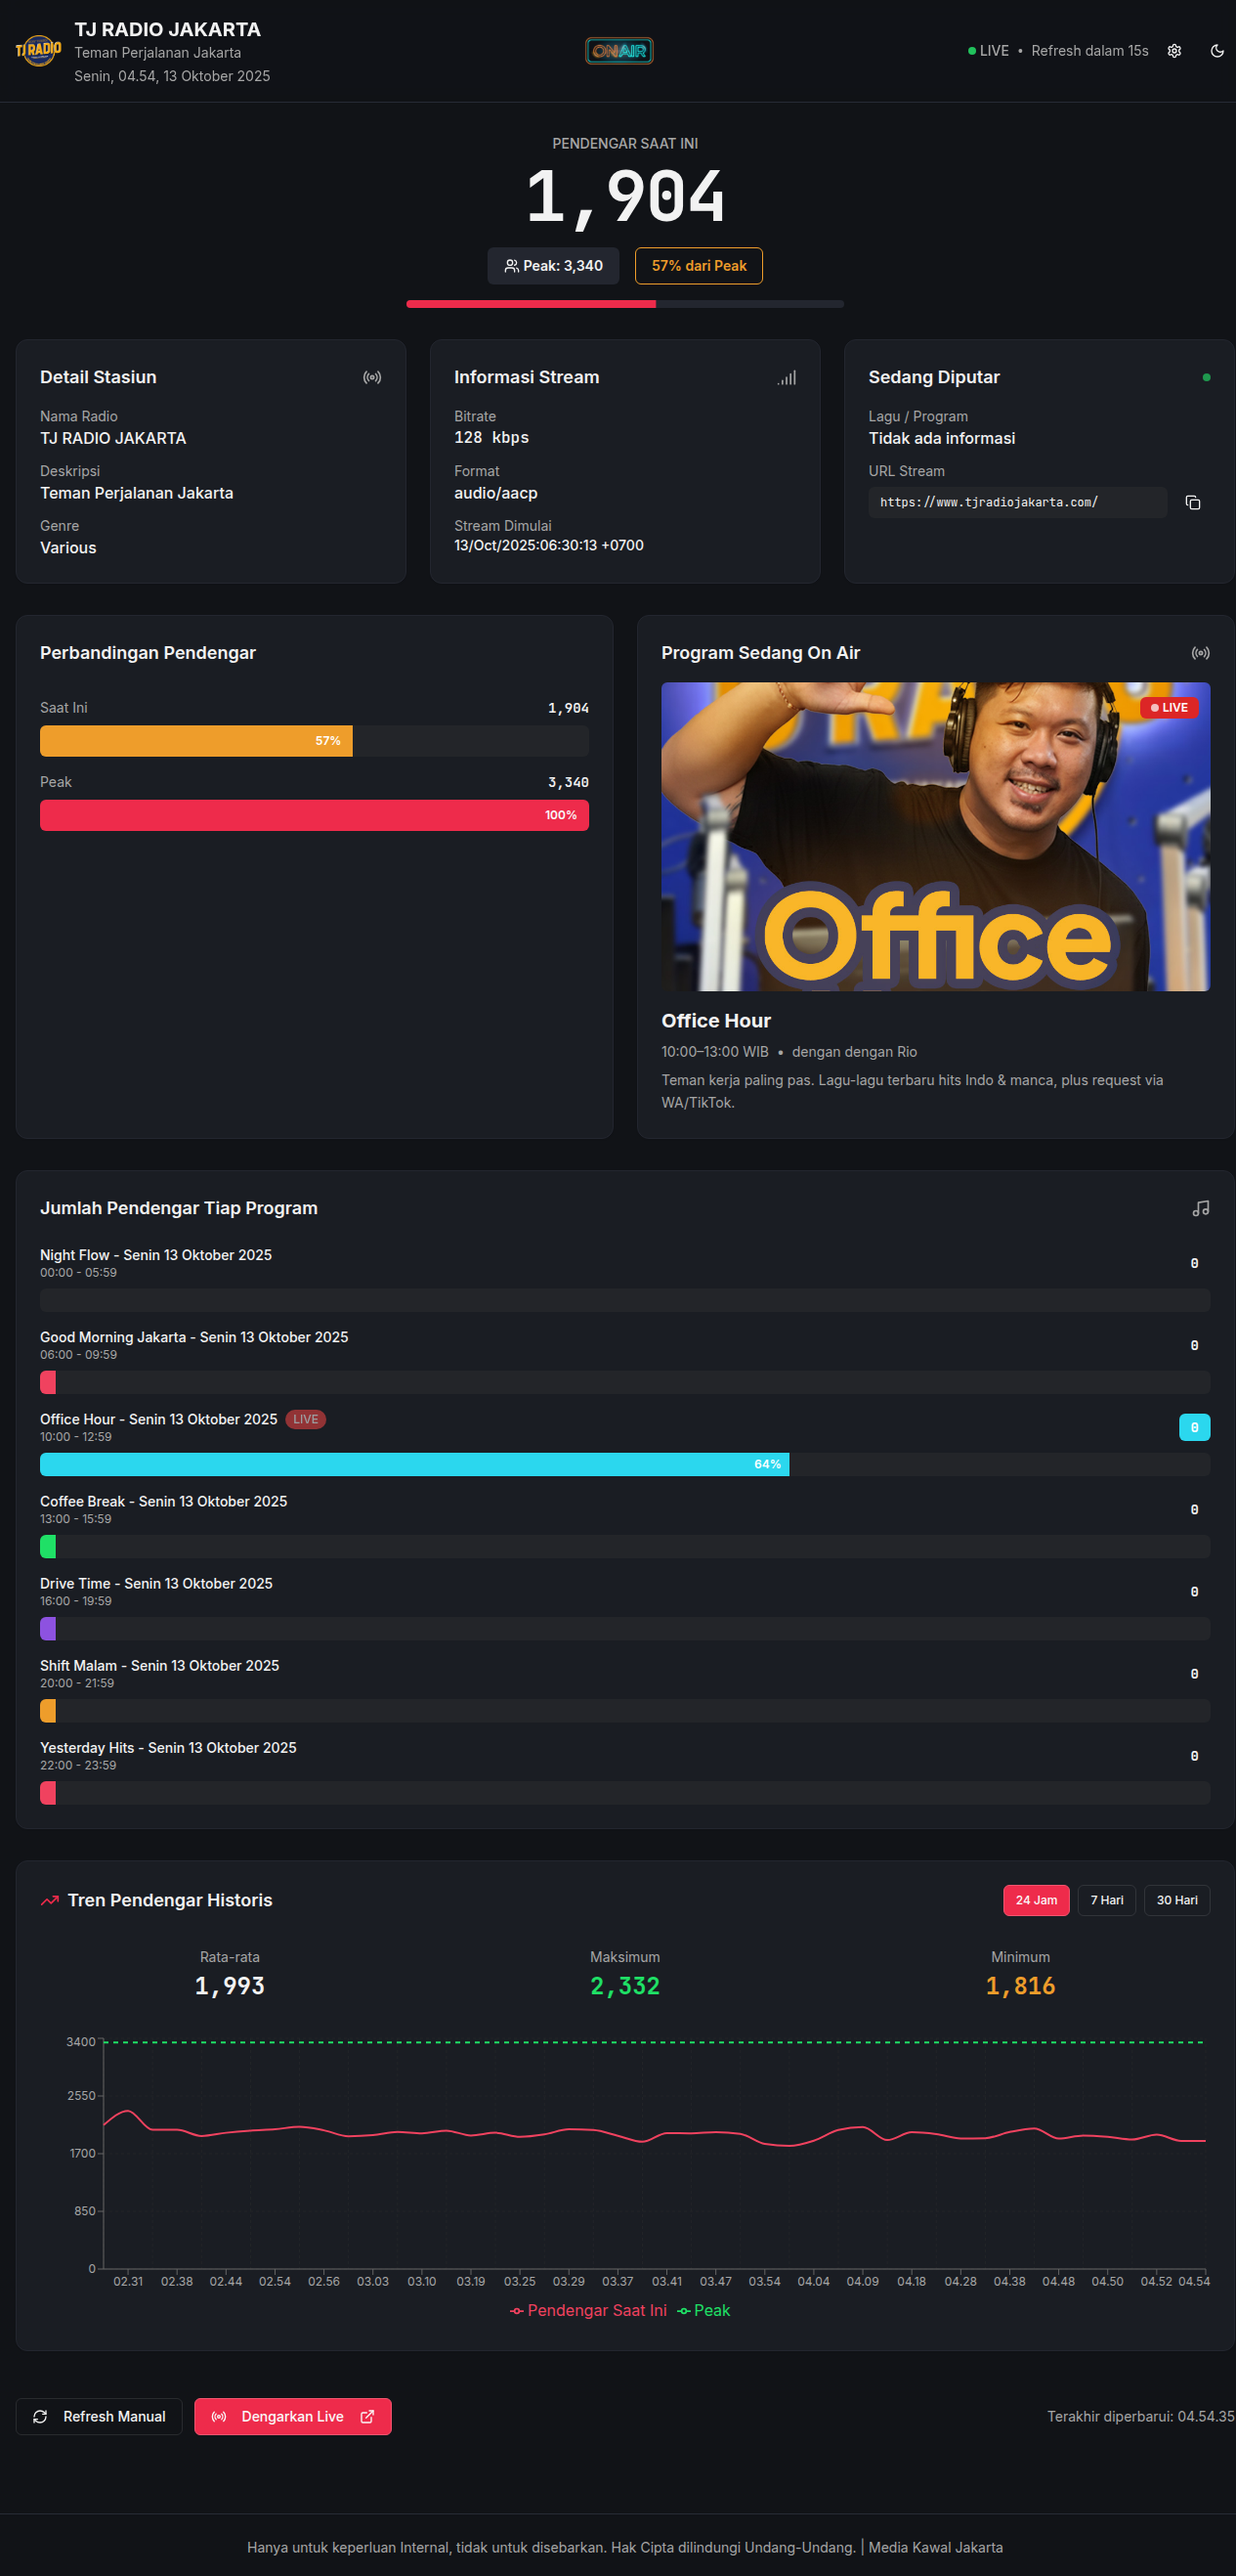
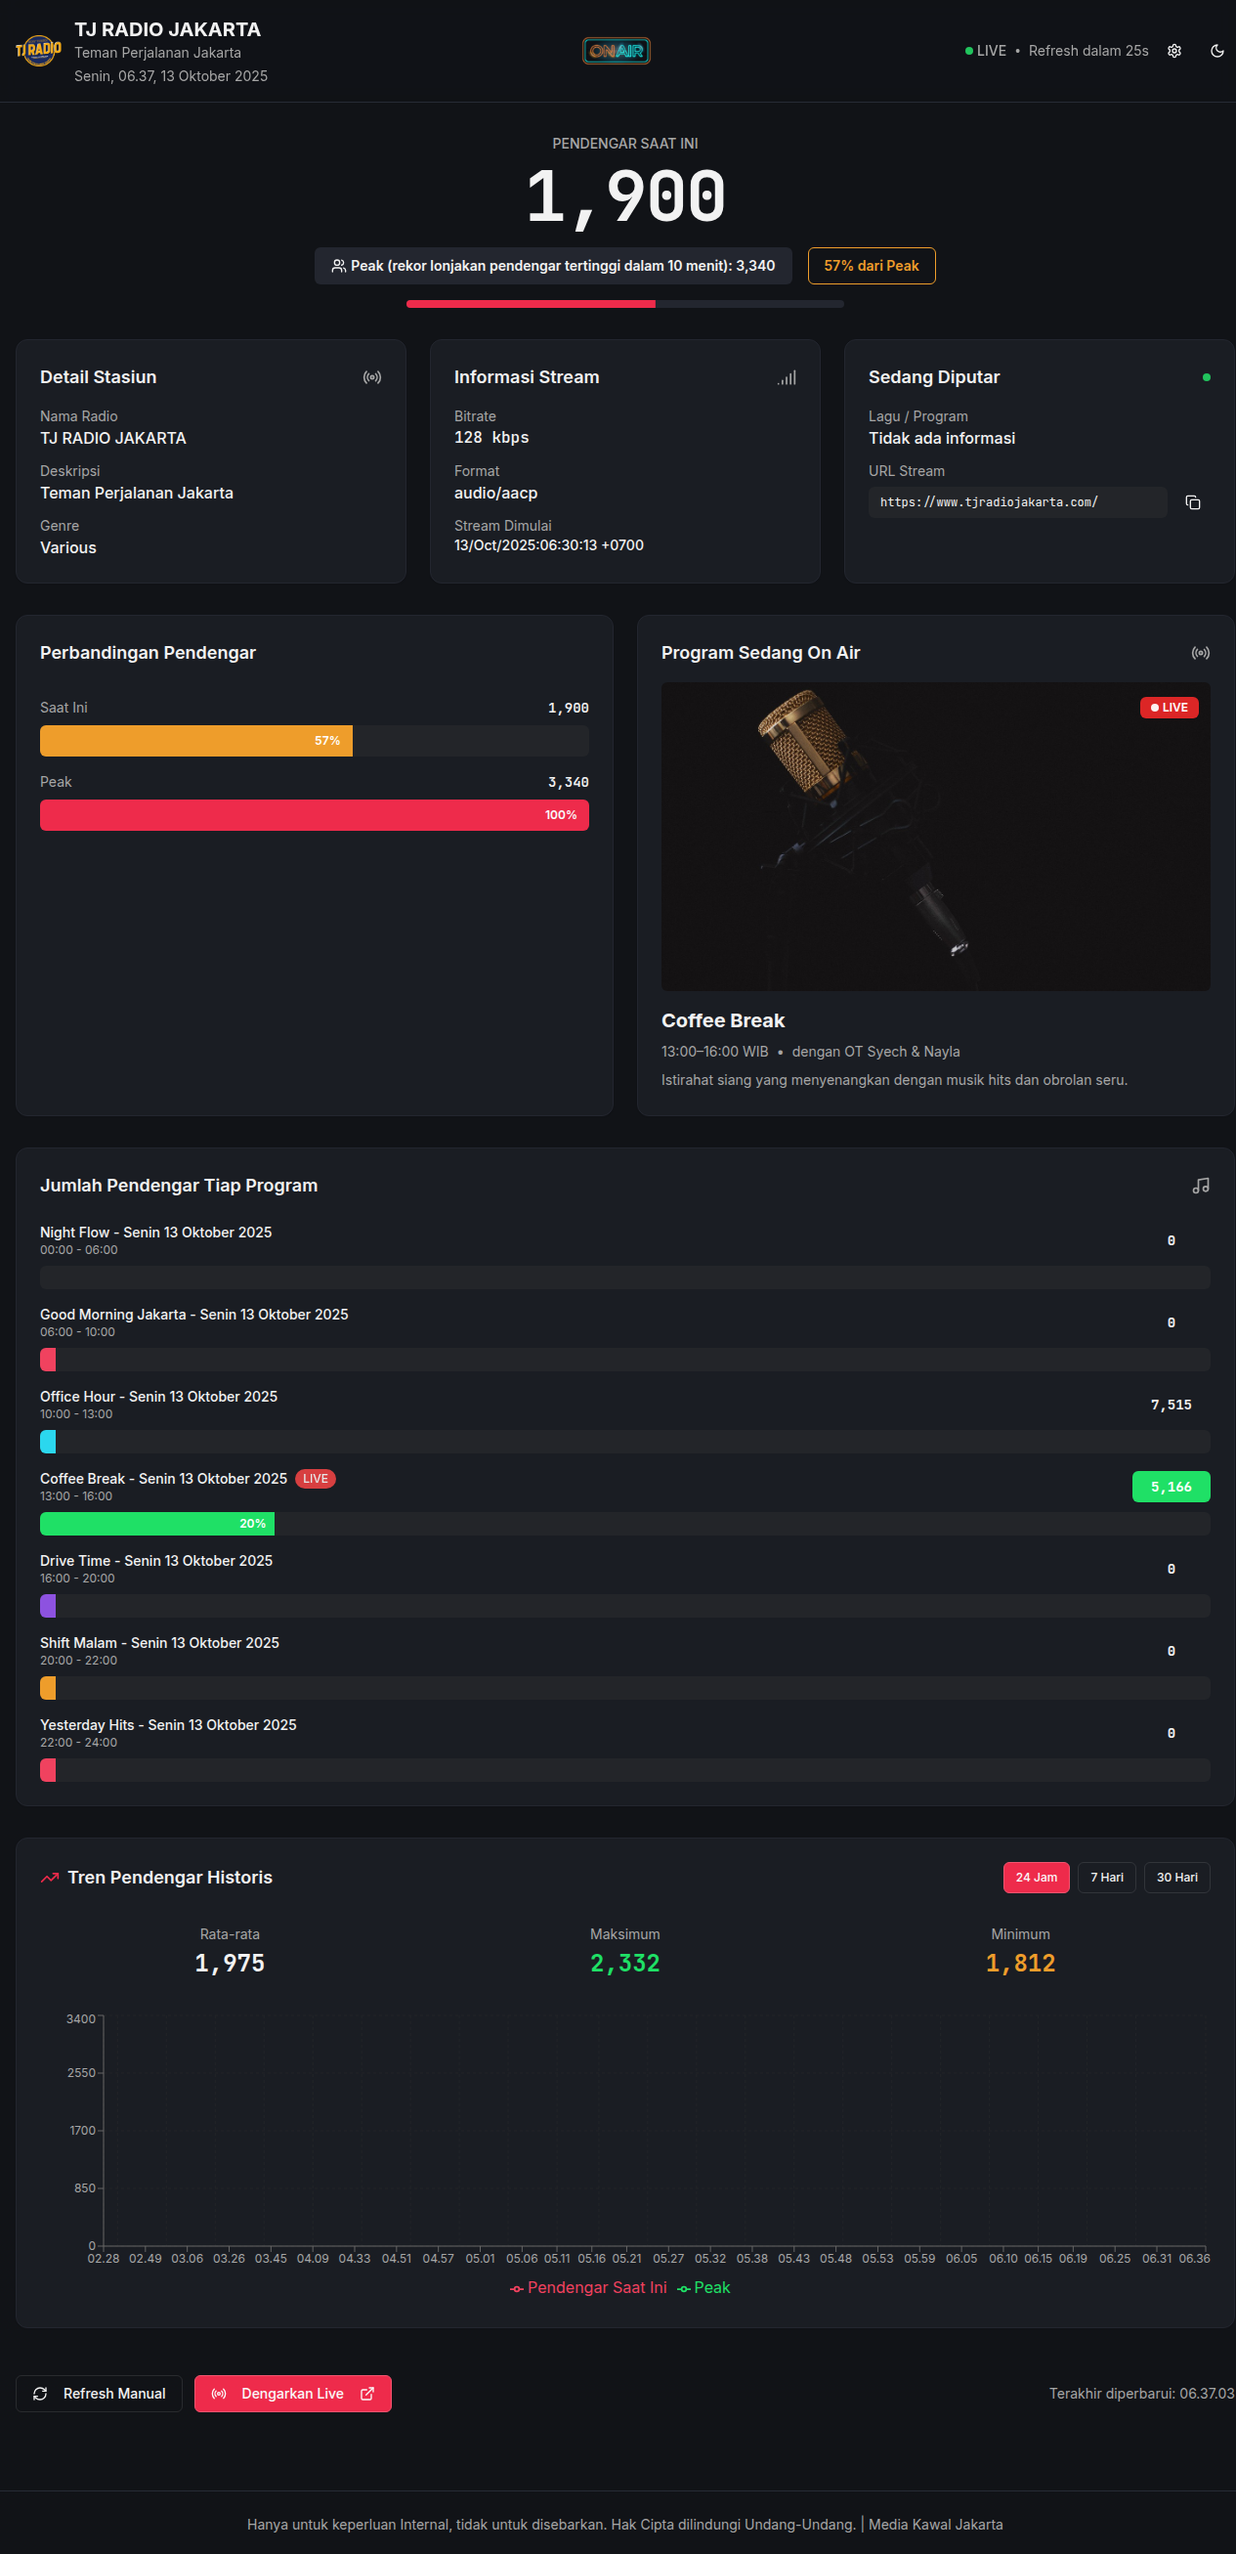
Improve program image display with fallback and update listener calculation logic
Implement a fallback image for program displays when the original image URL fails. Refactor the listener calculation formula in server routes and update the peak listener description in the dashboard.

Replit-Commit-Author: Agent
Replit-Commit-Session-Id: b8cbff25-a858-469f-b924-89520de21d2c
Replit-Commit-Checkpoint-Type: full_checkpoint
Replit-Commit-Screenshot-Url: https://storage.googleapis.com/screenshot-production-us-central1/4554a71a-bec5-4a58-9b7f-11e7cd305465/b8cbff25-a858-469f-b924-89520de21d2c/qaYTWeJ

diff --git a/client/src/components/on-air-program.tsx b/client/src/components/on-air-program.tsx
@@ -3,6 +3,8 @@ import { Card } from "@/components/ui/card";
 import { Skeleton } from "@/components/ui/skeleton";
 import { Badge } from "@/components/ui/badge";
 import { Radio } from "lucide-react";
+import { useState, useEffect } from "react";
+import fallbackImage from "@assets/stock_images/radio_dj_broadcastin_492e4d9b.jpg";
 
 interface OnAirProgram {
   programTitle: string;
@@ -18,6 +20,13 @@ export function OnAirProgram() {
     queryKey: ["/api/on-air-program"],
     refetchInterval: 30000,
   });
+
+  const [imgError, setImgError] = useState(false);
+
+  // Reset error state when program imageUrl changes
+  useEffect(() => {
+    setImgError(false);
+  }, [program?.imageUrl]);
 
   return (
     <Card className="p-6 space-y-4">
@@ -35,23 +44,22 @@ export function OnAirProgram() {
         </div>
       ) : program ? (
         <div className="space-y-4">
-          {/* Program Image */}
-          {program.imageUrl && (
-            <div className="relative aspect-video w-full overflow-hidden rounded-md">
-              <img 
-                src={program.imageUrl} 
-                alt={program.programTitle}
-                className="object-cover w-full h-full"
-                data-testid="img-on-air-program"
-              />
-              <div className="absolute top-3 right-3">
-                <Badge variant="destructive" className="bg-red-600 text-white" data-testid="badge-live-status">
-                  <div className="h-2 w-2 rounded-full bg-white animate-pulse-slow mr-1" />
-                  {program.status}
-                </Badge>
-              </div>
+          {/* Program Image - Always show with fallback */}
+          <div className="relative aspect-video w-full overflow-hidden rounded-md bg-muted">
+            <img 
+              src={imgError || !program.imageUrl ? fallbackImage : program.imageUrl}
+              alt={program.programTitle}
+              className="object-cover w-full h-full rounded-md"
+              data-testid="img-on-air-program"
+              onError={() => setImgError(true)}
+            />
+            <div className="absolute top-3 right-3">
+              <Badge variant="destructive" className="bg-red-600 text-white" data-testid="badge-live-status">
+                <div className="h-2 w-2 rounded-full bg-white animate-pulse-slow mr-1" />
+                {program.status}
+              </Badge>
             </div>
-          )}
+          </div>
 
           {/* Program Info */}
           <div className="space-y-2">
@@ -63,7 +71,7 @@ export function OnAirProgram() {
               {program.presenter && (
                 <>
                   <span>•</span>
-                  <span data-testid="text-presenter">dengan {program.presenter}</span>
+                  <span data-testid="text-presenter">{program.presenter}</span>
                 </>
               )}
             </div>

diff --git a/server/routes.ts b/server/routes.ts
@@ -499,8 +499,8 @@ export async function registerRoutes(app: Express): Promise<Server> {
           
           let cumulativeListeners = 0;
           
-          // Only calculate if this is the active program AND we have fresh delta data
-          if (program.name === currentProgramName && stats && stats.rawListeners > 0) {
+          // Calculate formula for all programs that have delta data
+          if (stats && stats.rawListeners > 0) {
             // Formula: Listeners = (x × durasi) + z × (jumlah jam siaran + 6)
             // x = latestDelta (dari delta calculation)
             // durasi = durasi program dalam menit
@@ -513,10 +513,10 @@ export async function registerRoutes(app: Express): Promise<Server> {
             const z = stats.rawListeners;
             const jumlahJamSiaran = durasi / 60; // Convert minutes to hours
             
-            // Calculate listeners using new formula
+            // Calculate listeners using formula for all programs
             cumulativeListeners = (x * durasi) + (z * (jumlahJamSiaran + 6));
           }
-          // For inactive programs or programs without fresh data: show 0
+          // Programs without data: show 0
           
           // Calculate progress based on time (0-100%)
           const now = new Date();

diff --git a/client/src/pages/dashboard.tsx b/client/src/pages/dashboard.tsx
@@ -237,7 +237,7 @@ export default function Dashboard() {
               <>
                 <Badge variant="secondary" className="px-4 py-2 text-sm">
                   <Users className="h-4 w-4 mr-1" />
-                  Peak: {stats?.listenersPeak.toLocaleString()}
+                  Peak (rekor lonjakan pendengar tertinggi dalam 10 menit): {stats?.listenersPeak.toLocaleString()}
                 </Badge>
                 <Badge 
                   variant="outline" 

diff --git a/replit.md b/replit.md
@@ -122,12 +122,13 @@ Dashboard statistik real-time untuk TJ Radio Jakarta yang menampilkan data strea
    - **Implementation**: Schedule-based determination (WIB timezone)
    - Data source: Hardcoded program schedules yang reliable
    - Menampilkan:
-     * Foto program yang sedang on air
-     * Nama program dan penyiar
+     * Foto program yang sedang on air (dengan fallback image jika URL eksternal gagal)
+     * Nama program dan penyiar (tanpa duplikasi teks)
      * Jam siaran
      * Deskripsi program
      * Badge LIVE status
    - Auto-refresh setiap 30 detik
+   - Fallback image: Stock photo radio DJ dari attached_assets
    - 7 Program dengan jadwal tetap:
      * Night Flow (00:00-06:00) - Denny CH & Eko Kuntadhi
      * Good Morning Jakarta (06:00-10:00) - Indy & Irwan
